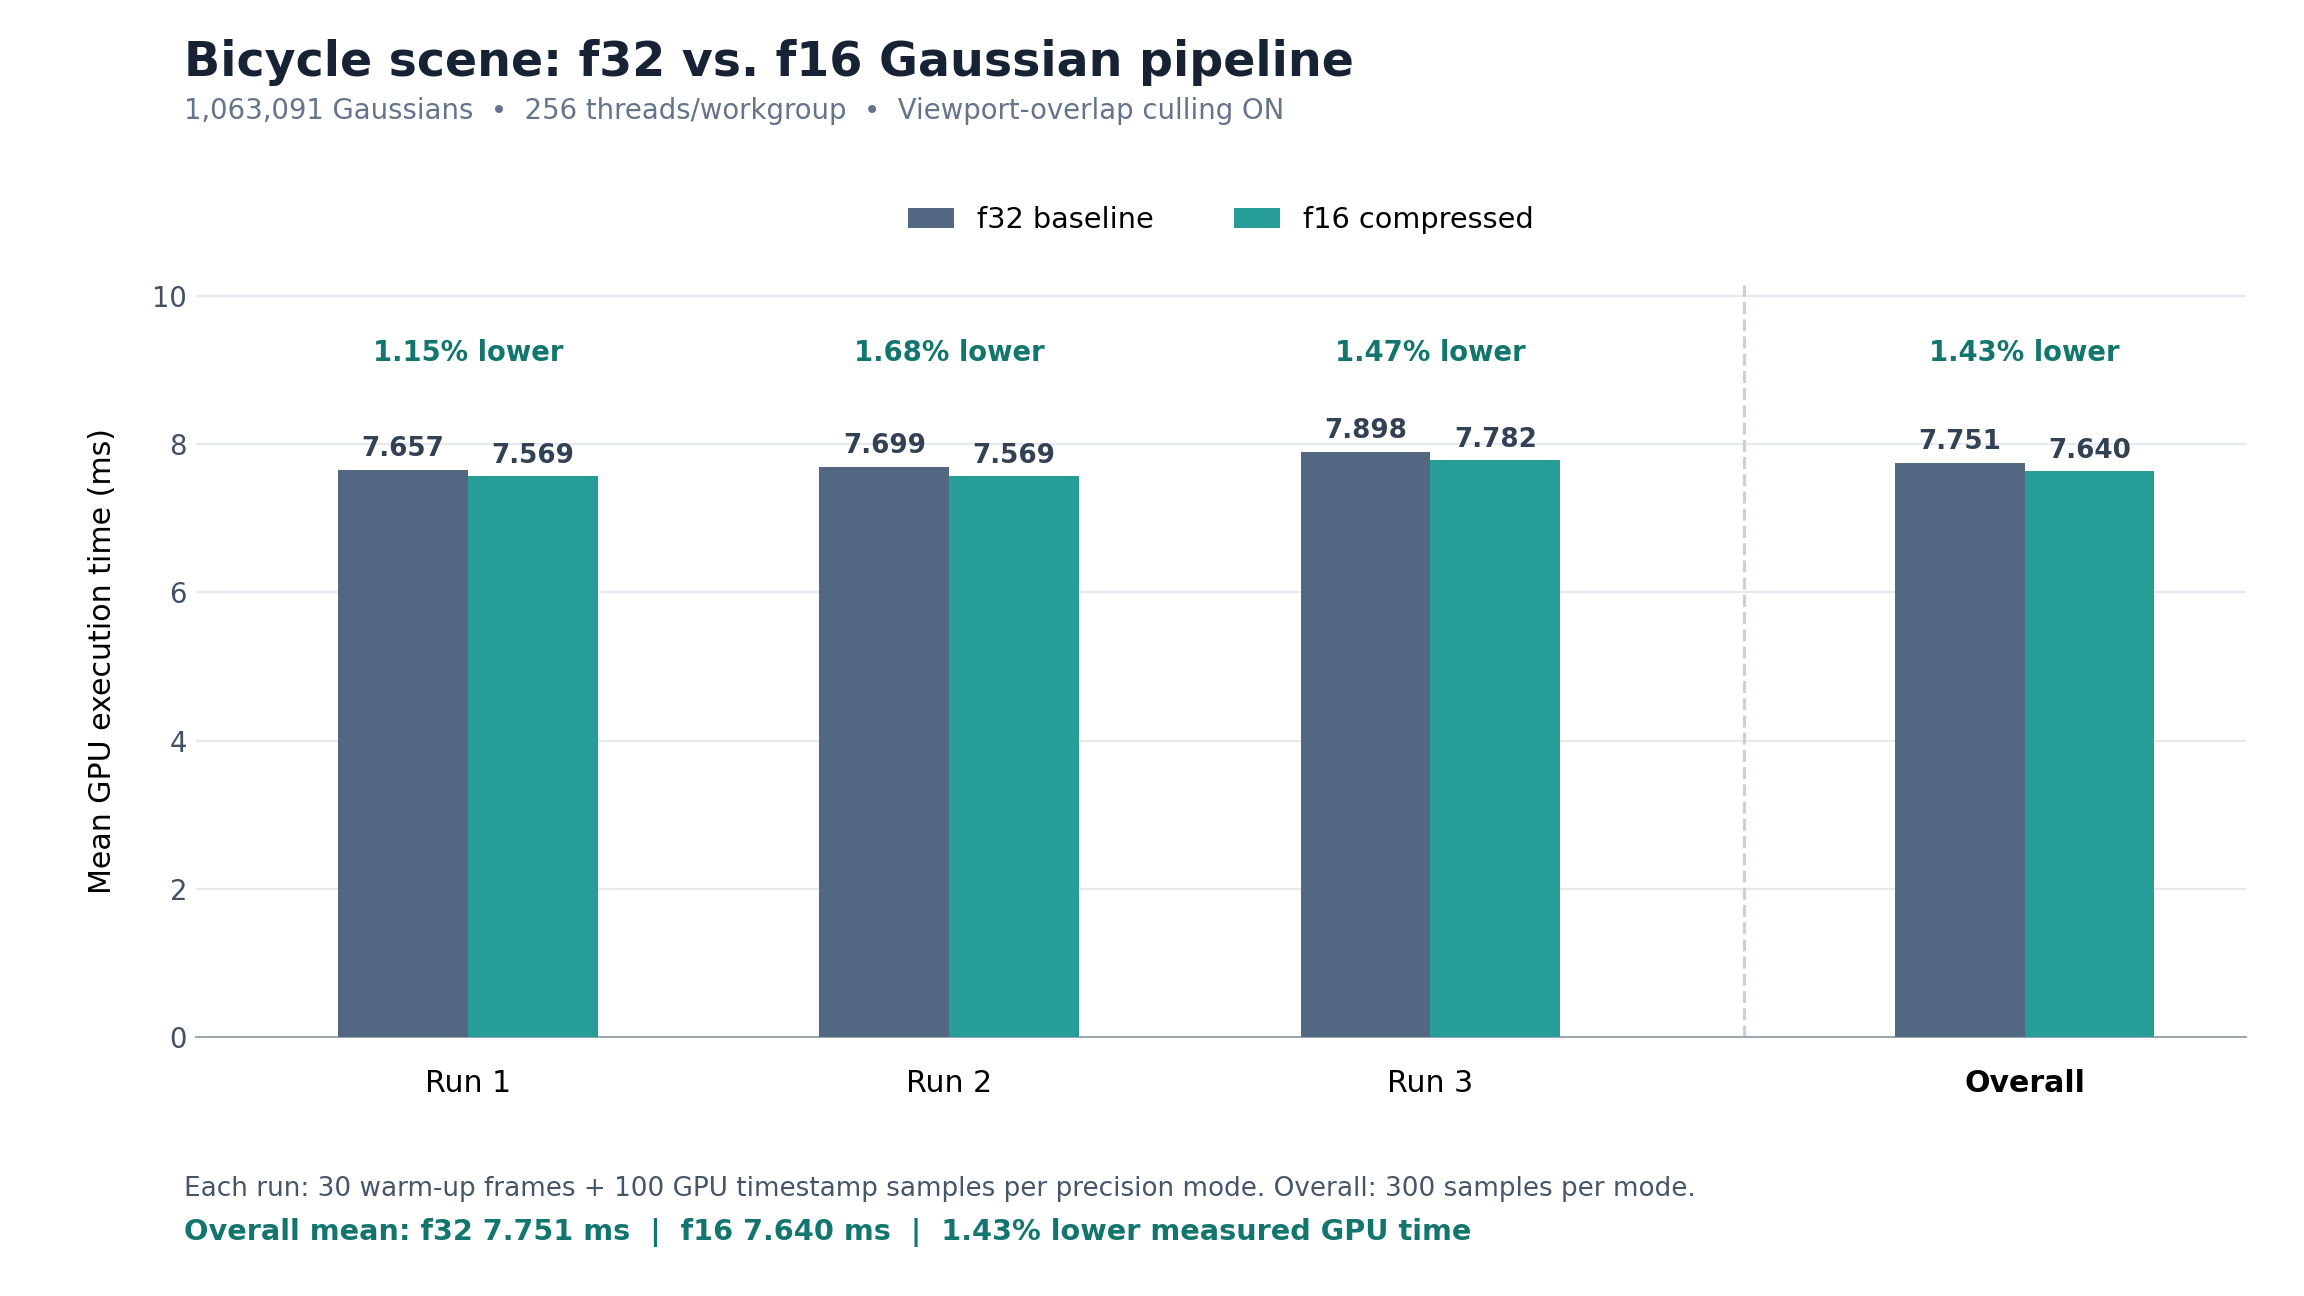
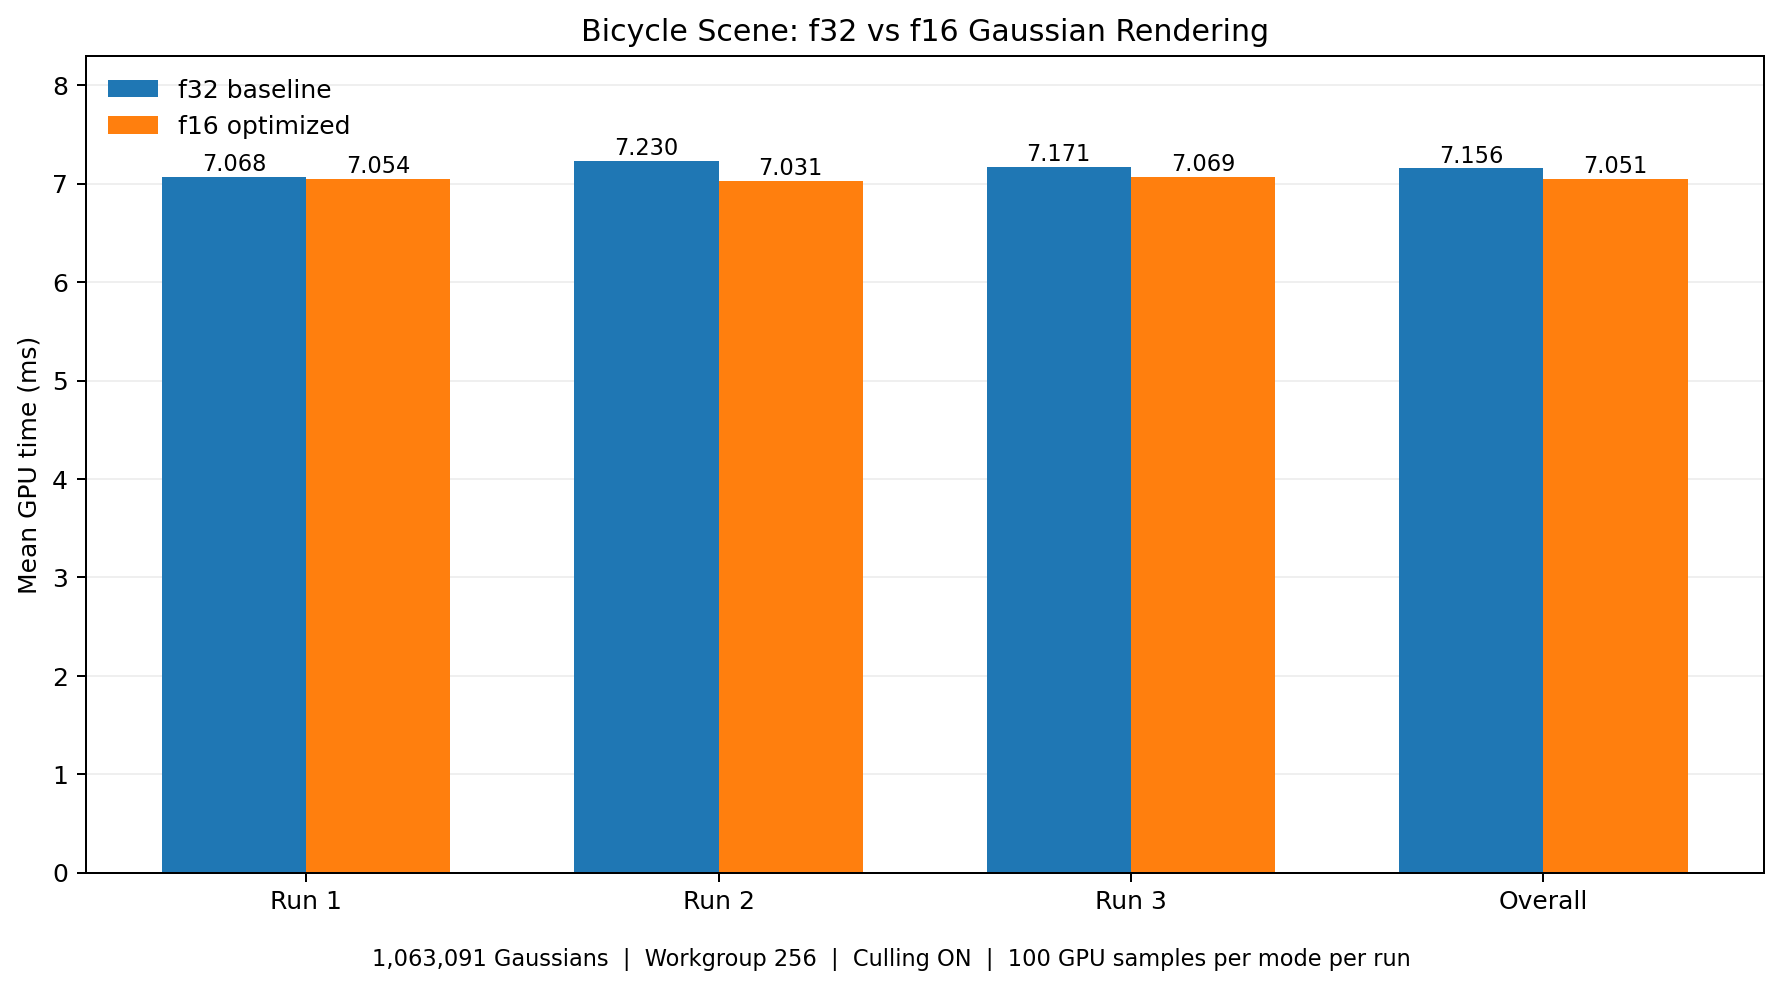
Finalize performance analysis and f16 benchmark chart

diff --git a/README.md b/README.md
@@ -148,21 +148,13 @@ For each configuration, I collected 100 GPU timestamp samples after 30 warm-up f
 
 GPU execution time is distinct from the frame rate displayed by the viewer. The results measure GPU work captured by the benchmark rather than complete end-to-end application latency.
 
-#### Benchmark Records and Consistency
+#### Benchmark Consistency
 
-**Precision used in Experiments 1–4: f32.** The CSV files for Experiments 1–4 were all exported on October 24, 2026 between 13:57 and 19:15. The f16 preprocessing shader (`preprocess_f16.wgsl`) was not created until 19:55 that day, and the compressed f16 render shader (`gaussian_f16.wgsl`) until 22:27, so the f16 pipeline did not exist when those experiments were run. Only Experiment 5 compares f16 against f32.
+Experiments 1–4 used the original f32 pipeline, while Experiment 5 compares f32 against the final f16 implementation.
 
-**The same configuration appears with different times in different experiments.** The Bonsai Gaussian renderer at 256 threads with viewport-overlap culling enabled is reported three times:
+Some configurations appear in multiple experiments with different GPU times. For example, Bonsai at 256 threads with culling enabled measured 1.922 ms in the workgroup experiment, 2.252 ms in the culling experiment, and 1.834 ms in the renderer comparison. These measurements came from separate sessions, with implementation changes between some runs and potentially different camera views.
 
-| Experiment | Reported Time | CSV Exported (Oct 24, 2026) |
-|---|---:|---|
-| 2. Workgroup size (256 threads) | 1.922 ms | 13:57 |
-| 3. Frustum culling (ON) | 2.252 ms | 15:42 |
-| 1. Renderer comparison (Gaussian) | 1.834 ms | 18:08 |
-
-These are three separate benchmark sessions recorded hours apart, not repeated trials under controlled conditions. The preprocessing shader source was also modified between the first and second sessions, so the code was not necessarily identical across them. The camera view used in each session was not recorded, and the cause of the roughly 23% spread could not be verified. **Numbers should only be compared within a single experiment**, where all configurations were measured back-to-back in the same session. Comparisons across experiments are not meaningful.
-
-Similarly, the Bicycle row in Experiment 1 and the 100% row in Experiment 4 are the same measurement (exported together at 19:15).
+For this reason, I compare configurations within each experiment rather than directly comparing GPU times across separate sessions. The Bicycle measurement in Experiment 1 is also reused as the 100% configuration in Experiment 4.
 
 
 
@@ -230,13 +222,11 @@ For Bonsai, increasing the workgroup size from 64 to 256 threads slightly reduce
 
 For Bicycle, the 64-thread configuration was the fastest: 7.662 ms, compared with 7.841 ms at 256 threads (about 2.3% slower at 256).
 
-Neither scene shows a consistent trend, and the spread is small. There are three reasons to be cautious about reading much into it:
+Neither scene shows a consistent trend, and the measured differences are relatively small. The preprocessing workgroup size affects only the preprocessing dispatch, while depth sorting and rendering remain unchanged. Since the timing includes all three stages, improvements in preprocessing may have a limited effect on total GPU execution time.
 
-- **Only part of the timed work depends on workgroup size.** The workgroup size only changes the preprocessing dispatch. Depth sorting and splat rendering, which are also inside the timed interval, run the same way regardless. Any change in preprocessing cost is therefore diluted by the stages that did not change.
-- **The differences are similar in size to run-to-run variation.** Each configuration was measured once (100 samples). In Experiment 5, three repeated f32 runs of the same Bicycle configuration ranged from 7.657 ms to 7.898 ms, a spread of about 3%. The workgroup-size differences here are smaller than that.
-- **Preprocessing is one thread per Gaussian with no shared memory or barriers.** Because of this, workgroup size mostly changes how threads are grouped for scheduling, not the amount of work. Larger workgroups mean fewer workgroups to dispatch. Smaller ones give the scheduler finer-grained units to distribute. Neither effect is expected to be large for this kernel.
+The preprocessing kernel also processes Gaussians independently, without shared memory or workgroup barriers. Changing the workgroup size primarily affects GPU scheduling rather than the amount of computation.
 
-These results do not establish an optimal workgroup size for this GPU. They are consistent with workgroup size having little effect on total frame GPU time for this pipeline.
+Each configuration was measured once using 100 GPU samples. For comparison, the repeated f32 Bicycle measurements in Experiment 5 varied by approximately 2.3%, similar to the differences observed here. These results therefore do not establish a single optimal workgroup size for this GPU.
 
 
 
@@ -258,17 +248,13 @@ For Bonsai, enabling viewport-overlap culling did not improve performance. The c
 
 For Bicycle, enabling culling reduced GPU execution time by approximately 1.9%.
 
-**What the toggle changes.** The toggle only controls the viewport-overlap test, which checks whether a Gaussian's three-sigma footprint overlaps the screen. Behind-camera, near/far depth-range, and invalid-covariance rejection stay active in both configurations. With culling OFF, a Gaussian that is in front of the camera but entirely off-screen is still:
+The culling toggle controls only the viewport-overlap test, which checks whether a Gaussian's projected three-sigma footprint intersects the screen. Other visibility and validity checks, including behind-camera, depth-range, and invalid-covariance rejection, remain enabled in both configurations.
 
-1. given a spherical-harmonics color evaluation and written to the splat buffer during preprocessing,
-2. appended to the sort list and sorted by depth, and
-3. drawn as an instanced quad, running the vertex shader for its six vertices.
+With culling disabled, Gaussians that are in front of the camera but entirely outside the viewport may still undergo spherical-harmonics color evaluation, depth sorting, and instanced quad rendering. Enabling viewport-overlap culling rejects these Gaussians earlier, reducing preprocessing, sorting, and vertex-processing work.
 
-With culling ON, these Gaussians are dropped before step 1's color evaluation, so they cost nothing in sorting or rendering.
+However, off-screen quads produce essentially no fragments because they are clipped or discarded during rasterization. Therefore, viewport-overlap culling does not significantly reduce fragment shading for fully off-screen Gaussians. Its performance benefit must also outweigh the additional overlap test performed during preprocessing.
 
-**Culling savings vs. hardware clipping.** Even with culling OFF, off-screen quads produce essentially no fragments, because the GPU's fixed-function clipping and rasterization discard geometry outside the viewport. Fragment shading and alpha blending, usually the most expensive part of splatting, are therefore *not* where culling saves time. The actual savings are limited to SH color evaluation, sorting work, and per-instance vertex processing for off-screen Gaussians. Against that, every Gaussian pays for the overlap test. This explains why the measured effect is small in both directions.
-
-**Why the scenes may differ.** How much culling helps depends on how many Gaussians in front of the camera are off-screen, which depends on the scene and camera view. A plausible explanation is that the tested Bicycle view had more off-screen Gaussians than the Bonsai view. However, I did not record visible-Gaussian counts for either configuration, so this cannot be confirmed from these measurements. The Bonsai difference (0.011 ms) is also well within the run-to-run variation discussed above. It should be read as "no measurable effect," not as culling making Bonsai slower.
+The results suggest that the effectiveness of viewport-overlap culling depends on the scene and camera view. For Bicycle, enabling culling reduced GPU execution time by approximately 1.9%, while Bonsai showed a negligible difference of 0.011 ms. Since I did not record visible-Gaussian counts, I cannot determine whether the Bicycle view contained more off-screen Gaussians. These measurements indicate a small, scene-dependent benefit rather than a consistent performance improvement.
 
 
 
@@ -307,32 +293,27 @@ Additionally, the reduced-size datasets were created by selecting the first N Ga
 
 #### 5. Half-Precision Gaussian Preprocessing (Extra Credit)
 
-The fifth experiment evaluates whether half-precision preprocessing and compressed intermediate splat storage improve GPU performance relative to the original f32 pipeline.
+This experiment compares the original f32 Gaussian pipeline against the final f16 implementation, which uses half-precision arithmetic for spherical-harmonics color evaluation, opacity, and scale calculations, along with compressed intermediate splat storage.
 
-I used the Bicycle scene with all 1,063,091 Gaussians, a preprocessing workgroup size of 256 threads, and viewport-overlap frustum culling enabled. Both precision modes used the same scene and camera configuration.
-
-Each benchmark run consisted of 30 warm-up frames followed by 100 GPU timestamp samples per precision mode. I repeated the experiment three times, collecting 300 samples per mode.
+I tested the Bicycle scene with all 1,063,091 Gaussians, 256 preprocessing threads per workgroup, and viewport-overlap culling enabled. Each run measured f32 followed by f16, with 30 warm-up frames and 100 GPU timestamp samples per mode. I repeated the comparison three times for 300 samples per precision mode.
 
 | Run | f32 Mean GPU Time | f16 Mean GPU Time | GPU Time Reduction |
 |---|---:|---:|---:|
-| 1 | 7.657 ms | 7.569 ms | 1.15% |
-| 2 | 7.699 ms | 7.569 ms | 1.68% |
-| 3 | 7.898 ms | 7.782 ms | 1.47% |
-| **Overall** | **7.751 ms** | **7.640 ms** | **1.43%** |
+| 1 | 7.068 ms | 7.054 ms | 0.20% |
+| 2 | 7.230 ms | 7.031 ms | 2.75% |
+| 3 | 7.171 ms | 7.069 ms | 1.43% |
+| **Overall** | **7.156 ms** | **7.051 ms** | **1.47%** |
 
-![f32 vs. f16 Gaussian pipeline performance](images/12_f16_vs_f32_performance.png)
 
-Across the three runs, the compressed f16 implementation reduced mean GPU execution time from approximately 7.751 ms to 7.640 ms, corresponding to a 1.43% reduction in measured GPU time.
+![f32 vs. f16 Gaussian rendering performance](images/12_f16_vs_f32_performance.png)
 
-The f16 implementation was faster in all three runs, although the improvement was relatively small. The results suggest that half-precision preprocessing and compressed splat storage can provide a modest performance benefit for the tested scene and GPU.
+Across the three runs, f16 reduced average GPU execution time from 7.156 ms to 7.051 ms, an improvement of approximately 1.47%. It was faster in all three runs, although the improvement varied between runs.
 
-The optimization reduces the intermediate splat representation from 48 bytes to 32 bytes per Gaussian, a 33.3% reduction in per-splat storage. However, both representations are allocated to support runtime precision switching, and the measured timing includes preprocessing, sorting, and rendering rather than preprocessing alone.
+The compressed intermediate splat representation uses 32 bytes per Gaussian instead of 48 bytes, reducing its stride by 33.3%. Both buffer formats are still allocated for runtime switching, so this is not a 33.3% reduction in total GPU memory usage.
 
-Therefore, the results do not establish that preprocessing itself is 1.43% faster or that total GPU memory usage is reduced by 33.3%. Additional experiments would be required to isolate the individual contributions of half-precision arithmetic and compressed memory accesses.
+Since the benchmark measures preprocessing, depth sorting, and rendering together, the results reflect the complete Gaussian pipeline rather than the preprocessing shader alone. The modest improvement also suggests that reducing intermediate storage and using f16 arithmetic does not necessarily produce an equally large reduction in total rendering time.
 
-The results also reflect three sequential f32-then-f16 benchmark runs on one GPU. Although the improvement was consistent across these runs, GPU clock variation, temperature, and benchmark order may influence the measured differences.
-
-These measurements were collected before spherical-harmonics color evaluation was moved to f16 and before the f16 `exp()` range clamps were added. In that earlier version, only the opacity sigmoid and scale exponentiation used f16 arithmetic. The current f16 shader has not been re-benchmarked, so the table above should not be read as a measurement of it.
+These measurements were collected using the final f16 shader, including native f16 spherical-harmonics evaluation and the opacity and scale range safeguards.
 
 
 
